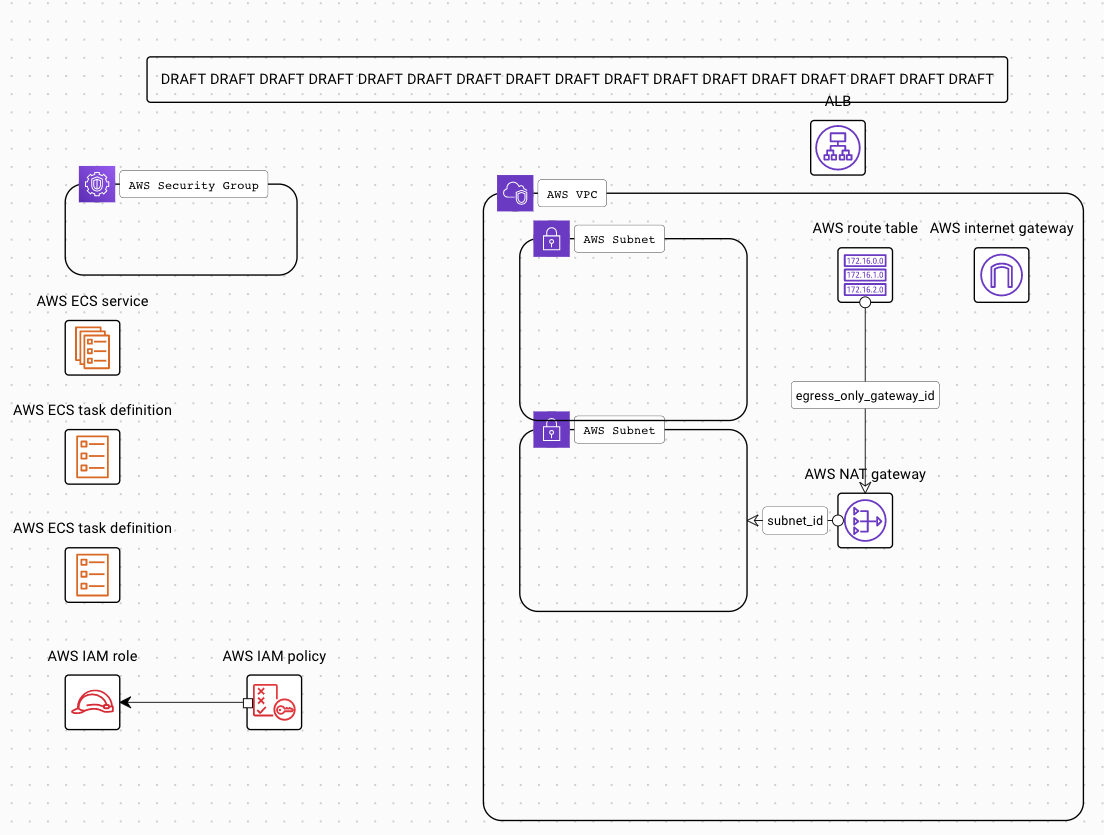
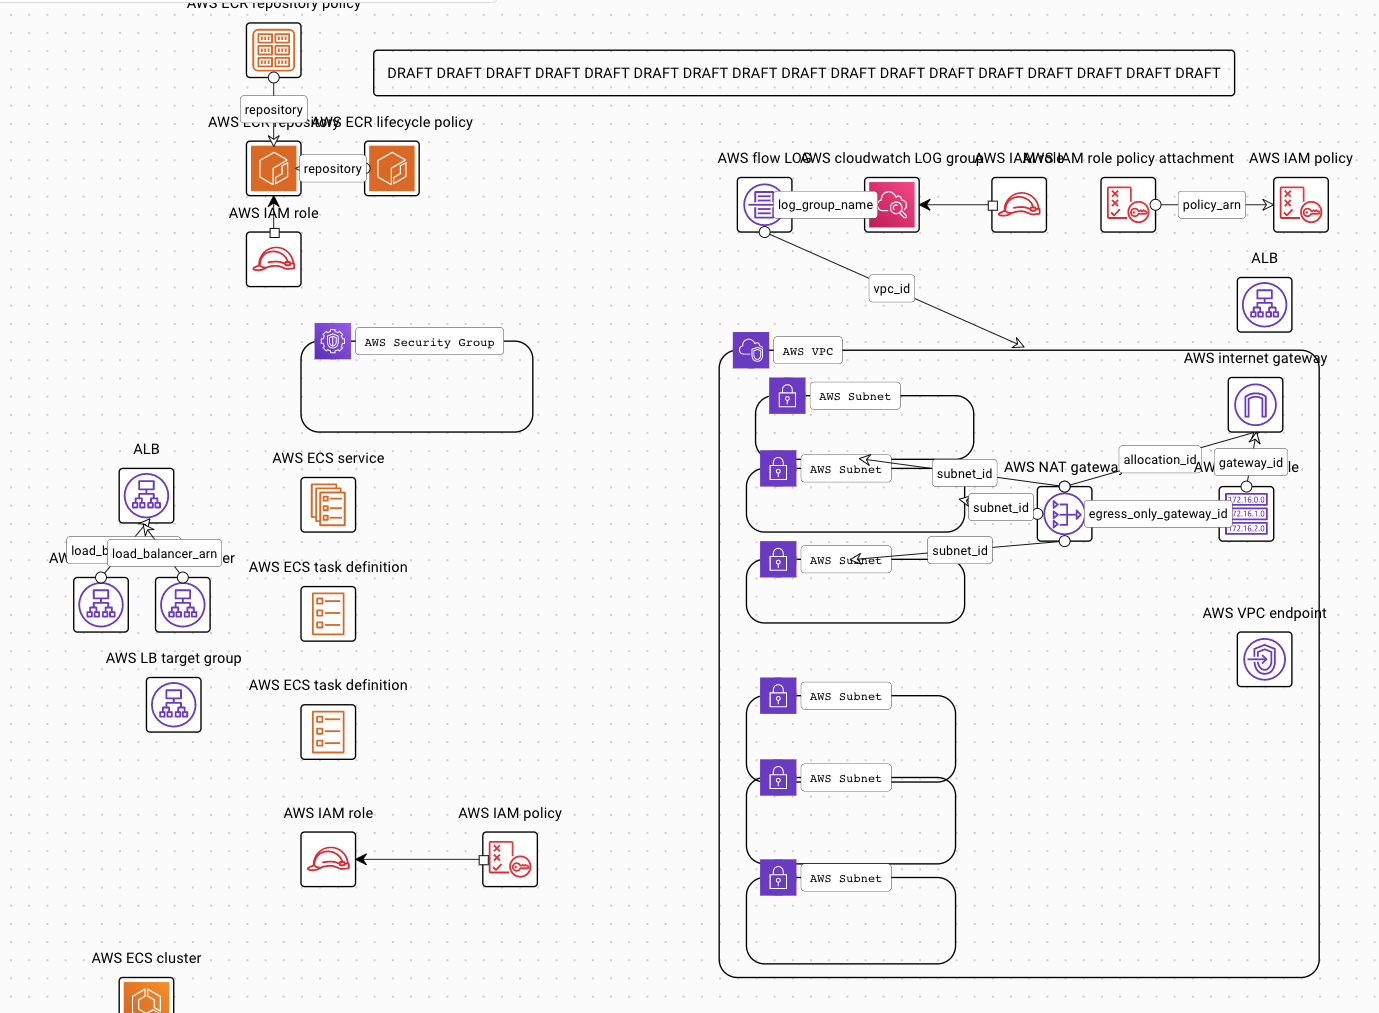
docs: WIP - architecture diagram

diff --git a/README.md b/README.md
@@ -49,80 +49,81 @@ src/terraform                                   #
 ```
 
 # AWS Resources
+- [x] Added to diagram
 ## Network Module
- - module.network.module.vpc.aws_cloudwatch_log_group.flow_log[0]
- - module.network.module.vpc.aws_eip.nat[0]
- - module.network.module.vpc.aws_flow_log.this[0]
- - module.network.module.vpc.aws_iam_policy.vpc_flow_log_cloudwatch[0]
- - module.network.module.vpc.aws_iam_role.vpc_flow_log_cloudwatch[0]
- - module.network.module.vpc.aws_iam_role_policy_attachment.vpc_flow_log_cloudwatch[0]
- - module.network.module.vpc.aws_internet_gateway.this[0]
- - module.network.module.vpc.aws_nat_gateway.this[0]
- - module.network.module.vpc.aws_route.private_nat_gateway[0]
- - module.network.module.vpc.aws_route.public_internet_gateway[0]
- - module.network.module.vpc.aws_route_table.private[0]
- - module.network.module.vpc.aws_route_table.public[0]
- - module.network.module.vpc.aws_route_table_association.private[0]
- - module.network.module.vpc.aws_route_table_association.private[1]
- - module.network.module.vpc.aws_route_table_association.private[2]
- - module.network.module.vpc.aws_route_table_association.public[0]
- - module.network.module.vpc.aws_route_table_association.public[1]
- - module.network.module.vpc.aws_route_table_association.public[2]
- - module.network.module.vpc.aws_subnet.private[0]
- - module.network.module.vpc.aws_subnet.private[1]
- - module.network.module.vpc.aws_subnet.private[2]
- - module.network.module.vpc.aws_subnet.public[0]
- - module.network.module.vpc.aws_subnet.public[1]
- - module.network.module.vpc.aws_subnet.public[2]
- - module.network.module.vpc.aws_vpc.this[0]
- - module.network.module.vpc.aws_vpc_endpoint.s3[0]
- - module.network.module.vpc.aws_vpc_endpoint_route_table_association.private_s3[0]
- - module.network.module.vpc.aws_vpc_endpoint_route_table_association.public_s3[0]
+ - [x] module.network.module.vpc.aws_cloudwatch_log_group.flow_log[0]
+ - [x] module.network.module.vpc.aws_eip.nat[0]
+ - [x] module.network.module.vpc.aws_flow_log.this[0]
+ - [x] module.network.module.vpc.aws_iam_policy.vpc_flow_log_cloudwatch[0]
+ - [x] module.network.module.vpc.aws_iam_role.vpc_flow_log_cloudwatch[0]
+ - [x] module.network.module.vpc.aws_iam_role_policy_attachment.vpc_flow_log_cloudwatch[0]
+ - [x] module.network.module.vpc.aws_internet_gateway.this[0]
+ - [x] module.network.module.vpc.aws_nat_gateway.this[0]
+ - [x] module.network.module.vpc.aws_route.private_nat_gateway[0]
+ - [ ] module.network.module.vpc.aws_route.public_internet_gateway[0]
+ - [ ] module.network.module.vpc.aws_route_table.private[0]
+ - [ ] module.network.module.vpc.aws_route_table.public[0]
+ - [ ] module.network.module.vpc.aws_route_table_association.private[0]
+ - [ ] module.network.module.vpc.aws_route_table_association.private[1]
+ - [ ] module.network.module.vpc.aws_route_table_association.private[2]
+ - [ ] module.network.module.vpc.aws_route_table_association.public[0]
+ - [ ] module.network.module.vpc.aws_route_table_association.public[1]
+ - [ ] module.network.module.vpc.aws_route_table_association.public[2]
+ - [x] module.network.module.vpc.aws_subnet.private[0]
+ - [x] module.network.module.vpc.aws_subnet.private[1]
+ - [x] module.network.module.vpc.aws_subnet.private[2]
+ - [x] module.network.module.vpc.aws_subnet.public[0]
+ - [x] module.network.module.vpc.aws_subnet.public[1]
+ - [x] module.network.module.vpc.aws_subnet.public[2]
+ - [x] module.network.module.vpc.aws_vpc.this[0]
+ - [x] module.network.module.vpc.aws_vpc_endpoint.s3[0]
+ - [x] module.network.module.vpc.aws_vpc_endpoint_route_table_association.private_s3[0]
+ - [x] module.network.module.vpc.aws_vpc_endpoint_route_table_association.public_s3[0]
  
 ## ECR Repo Module
- - module.ecr_repo.aws_iam_role.ecr_principle
- - module.ecr_repo.module.ecr_repo.aws_ecr_lifecycle_policy.name["demoapp-dev-dev-demoapp"]
- - module.ecr_repo.module.ecr_repo.aws_ecr_repository.name["demoapp-dev-dev-demoapp"]
- - module.ecr_repo.module.ecr_repo.aws_ecr_repository_policy.name["demoapp-dev-dev-demoapp"]
+ - [x] module.ecr_repo.aws_iam_role.ecr_principle
+ - [x] module.ecr_repo.module.ecr_repo.aws_ecr_lifecycle_policy.name["demoapp-dev-dev-demoapp"]
+ - [x] module.ecr_repo.module.ecr_repo.aws_ecr_repository.name["demoapp-dev-dev-demoapp"]
+ - [x] module.ecr_repo.module.ecr_repo.aws_ecr_repository_policy.name["demoapp-dev-dev-demoapp"]
 
 # Demo-App Module
-- module.demo_app.module.fargate.aws_alb.main
-- module.demo_app.module.fargate.aws_alb_listener.http
-- module.demo_app.module.fargate.aws_alb_listener.https
-- module.demo_app.module.fargate.aws_alb_target_group.main
-- module.demo_app.module.fargate.aws_appautoscaling_policy.app_down
-- module.demo_app.module.fargate.aws_appautoscaling_policy.app_up
-- module.demo_app.module.fargate.aws_appautoscaling_scheduled_action.app_autoscale_time_down
-- module.demo_app.module.fargate.aws_appautoscaling_scheduled_action.app_autoscale_time_up
-- module.demo_app.module.fargate.aws_appautoscaling_target.app_scale_target
-- module.demo_app.module.fargate.aws_cloudwatch_dashboard.cloudwatch_dashboard
-- module.demo_app.module.fargate.aws_cloudwatch_dashboard.ecs-event-stream
-- module.demo_app.module.fargate.aws_cloudwatch_event_rule.ecs_event_stream
-- module.demo_app.module.fargate.aws_cloudwatch_event_target.ecs_event_stream
-- module.demo_app.module.fargate.aws_cloudwatch_log_group.logs
-- module.demo_app.module.fargate.aws_cloudwatch_metric_alarm.cpu_utilization_high
-- module.demo_app.module.fargate.aws_cloudwatch_metric_alarm.cpu_utilization_low
-- module.demo_app.module.fargate.aws_ecs_cluster.app
-- module.demo_app.module.fargate.aws_ecs_service.app
-- module.demo_app.module.fargate.aws_ecs_task_definition.app
-- module.demo_app.module.fargate.aws_iam_role.app_role
-- module.demo_app.module.fargate.aws_iam_role.ecsTaskExecutionRole
-- module.demo_app.module.fargate.aws_iam_role.ecs_event_stream
-- module.demo_app.module.fargate.aws_iam_role_policy.app_policy
-- module.demo_app.module.fargate.aws_iam_role_policy_attachment.ecsTaskExecutionRole_policy
-- module.demo_app.module.fargate.aws_iam_role_policy_attachment.ecs_event_stream
-- module.demo_app.module.fargate.aws_lambda_alias.ecs_event_stream
-- module.demo_app.module.fargate.aws_lambda_function.ecs_event_stream
-- module.demo_app.module.fargate.aws_lambda_permission.ecs_event_stream
-- module.demo_app.module.fargate.aws_s3_bucket.lb_access_logs
-- module.demo_app.module.fargate.aws_s3_bucket_policy.lb_access_logs
-- module.demo_app.module.fargate.aws_security_group.nsg_lb
-- module.demo_app.module.fargate.aws_security_group.nsg_task
-- module.demo_app.module.fargate.aws_security_group_rule.ingress_lb_http
-- module.demo_app.module.fargate.aws_security_group_rule.ingress_lb_https
-- module.demo_app.module.fargate.aws_security_group_rule.nsg_lb_egress_rule
-- module.demo_app.module.fargate.aws_security_group_rule.nsg_task_egress_rule
-- module.demo_app.module.fargate.aws_security_group_rule.nsg_task_ingress_rule
+- [x] module.demo_app.module.fargate.aws_alb.main
+- [x] module.demo_app.module.fargate.aws_alb_listener.http
+- [x] module.demo_app.module.fargate.aws_alb_listener.https
+- [x] module.demo_app.module.fargate.aws_alb_target_group.main
+- [ ] module.demo_app.module.fargate.aws_appautoscaling_policy.app_down
+- [ ] module.demo_app.module.fargate.aws_appautoscaling_policy.app_up
+- [ ] module.demo_app.module.fargate.aws_appautoscaling_scheduled_action.app_autoscale_time_down
+- [ ] module.demo_app.module.fargate.aws_appautoscaling_scheduled_action.app_autoscale_time_up
+- [ ] module.demo_app.module.fargate.aws_appautoscaling_target.app_scale_target
+- [ ] module.demo_app.module.fargate.aws_cloudwatch_dashboard.cloudwatch_dashboard
+- [ ] module.demo_app.module.fargate.aws_cloudwatch_dashboard.ecs-event-stream
+- [ ] module.demo_app.module.fargate.aws_cloudwatch_event_rule.ecs_event_stream
+- [ ] module.demo_app.module.fargate.aws_cloudwatch_event_target.ecs_event_stream
+- [ ] module.demo_app.module.fargate.aws_cloudwatch_log_group.logs
+- [ ] module.demo_app.module.fargate.aws_cloudwatch_metric_alarm.cpu_utilization_high
+- [ ] module.demo_app.module.fargate.aws_cloudwatch_metric_alarm.cpu_utilization_low
+- [x] module.demo_app.module.fargate.aws_ecs_cluster.app
+- [ ] module.demo_app.module.fargate.aws_ecs_service.app
+- [ ] module.demo_app.module.fargate.aws_ecs_task_definition.app
+- [ ] module.demo_app.module.fargate.aws_iam_role.app_role
+- [ ] module.demo_app.module.fargate.aws_iam_role.ecsTaskExecutionRole
+- [ ] module.demo_app.module.fargate.aws_iam_role.ecs_event_stream
+- [ ] module.demo_app.module.fargate.aws_iam_role_policy.app_policy
+- [ ] module.demo_app.module.fargate.aws_iam_role_policy_attachment.ecsTaskExecutionRole_policy
+- [ ] module.demo_app.module.fargate.aws_iam_role_policy_attachment.ecs_event_stream
+- [ ] module.demo_app.module.fargate.aws_lambda_alias.ecs_event_stream
+- [ ] module.demo_app.module.fargate.aws_lambda_function.ecs_event_stream
+- [ ] module.demo_app.module.fargate.aws_lambda_permission.ecs_event_stream
+- [ ] module.demo_app.module.fargate.aws_s3_bucket.lb_access_logs
+- [ ] module.demo_app.module.fargate.aws_s3_bucket_policy.lb_access_logs
+- [ ] module.demo_app.module.fargate.aws_security_group.nsg_lb
+- [ ] module.demo_app.module.fargate.aws_security_group.nsg_task
+- [ ] module.demo_app.module.fargate.aws_security_group_rule.ingress_lb_http
+- [ ] module.demo_app.module.fargate.aws_security_group_rule.ingress_lb_https
+- [ ] module.demo_app.module.fargate.aws_security_group_rule.nsg_lb_egress_rule
+- [ ] module.demo_app.module.fargate.aws_security_group_rule.nsg_task_egress_rule
+- [ ] module.demo_app.module.fargate.aws_security_group_rule.nsg_task_ingress_rule
 
 
 
